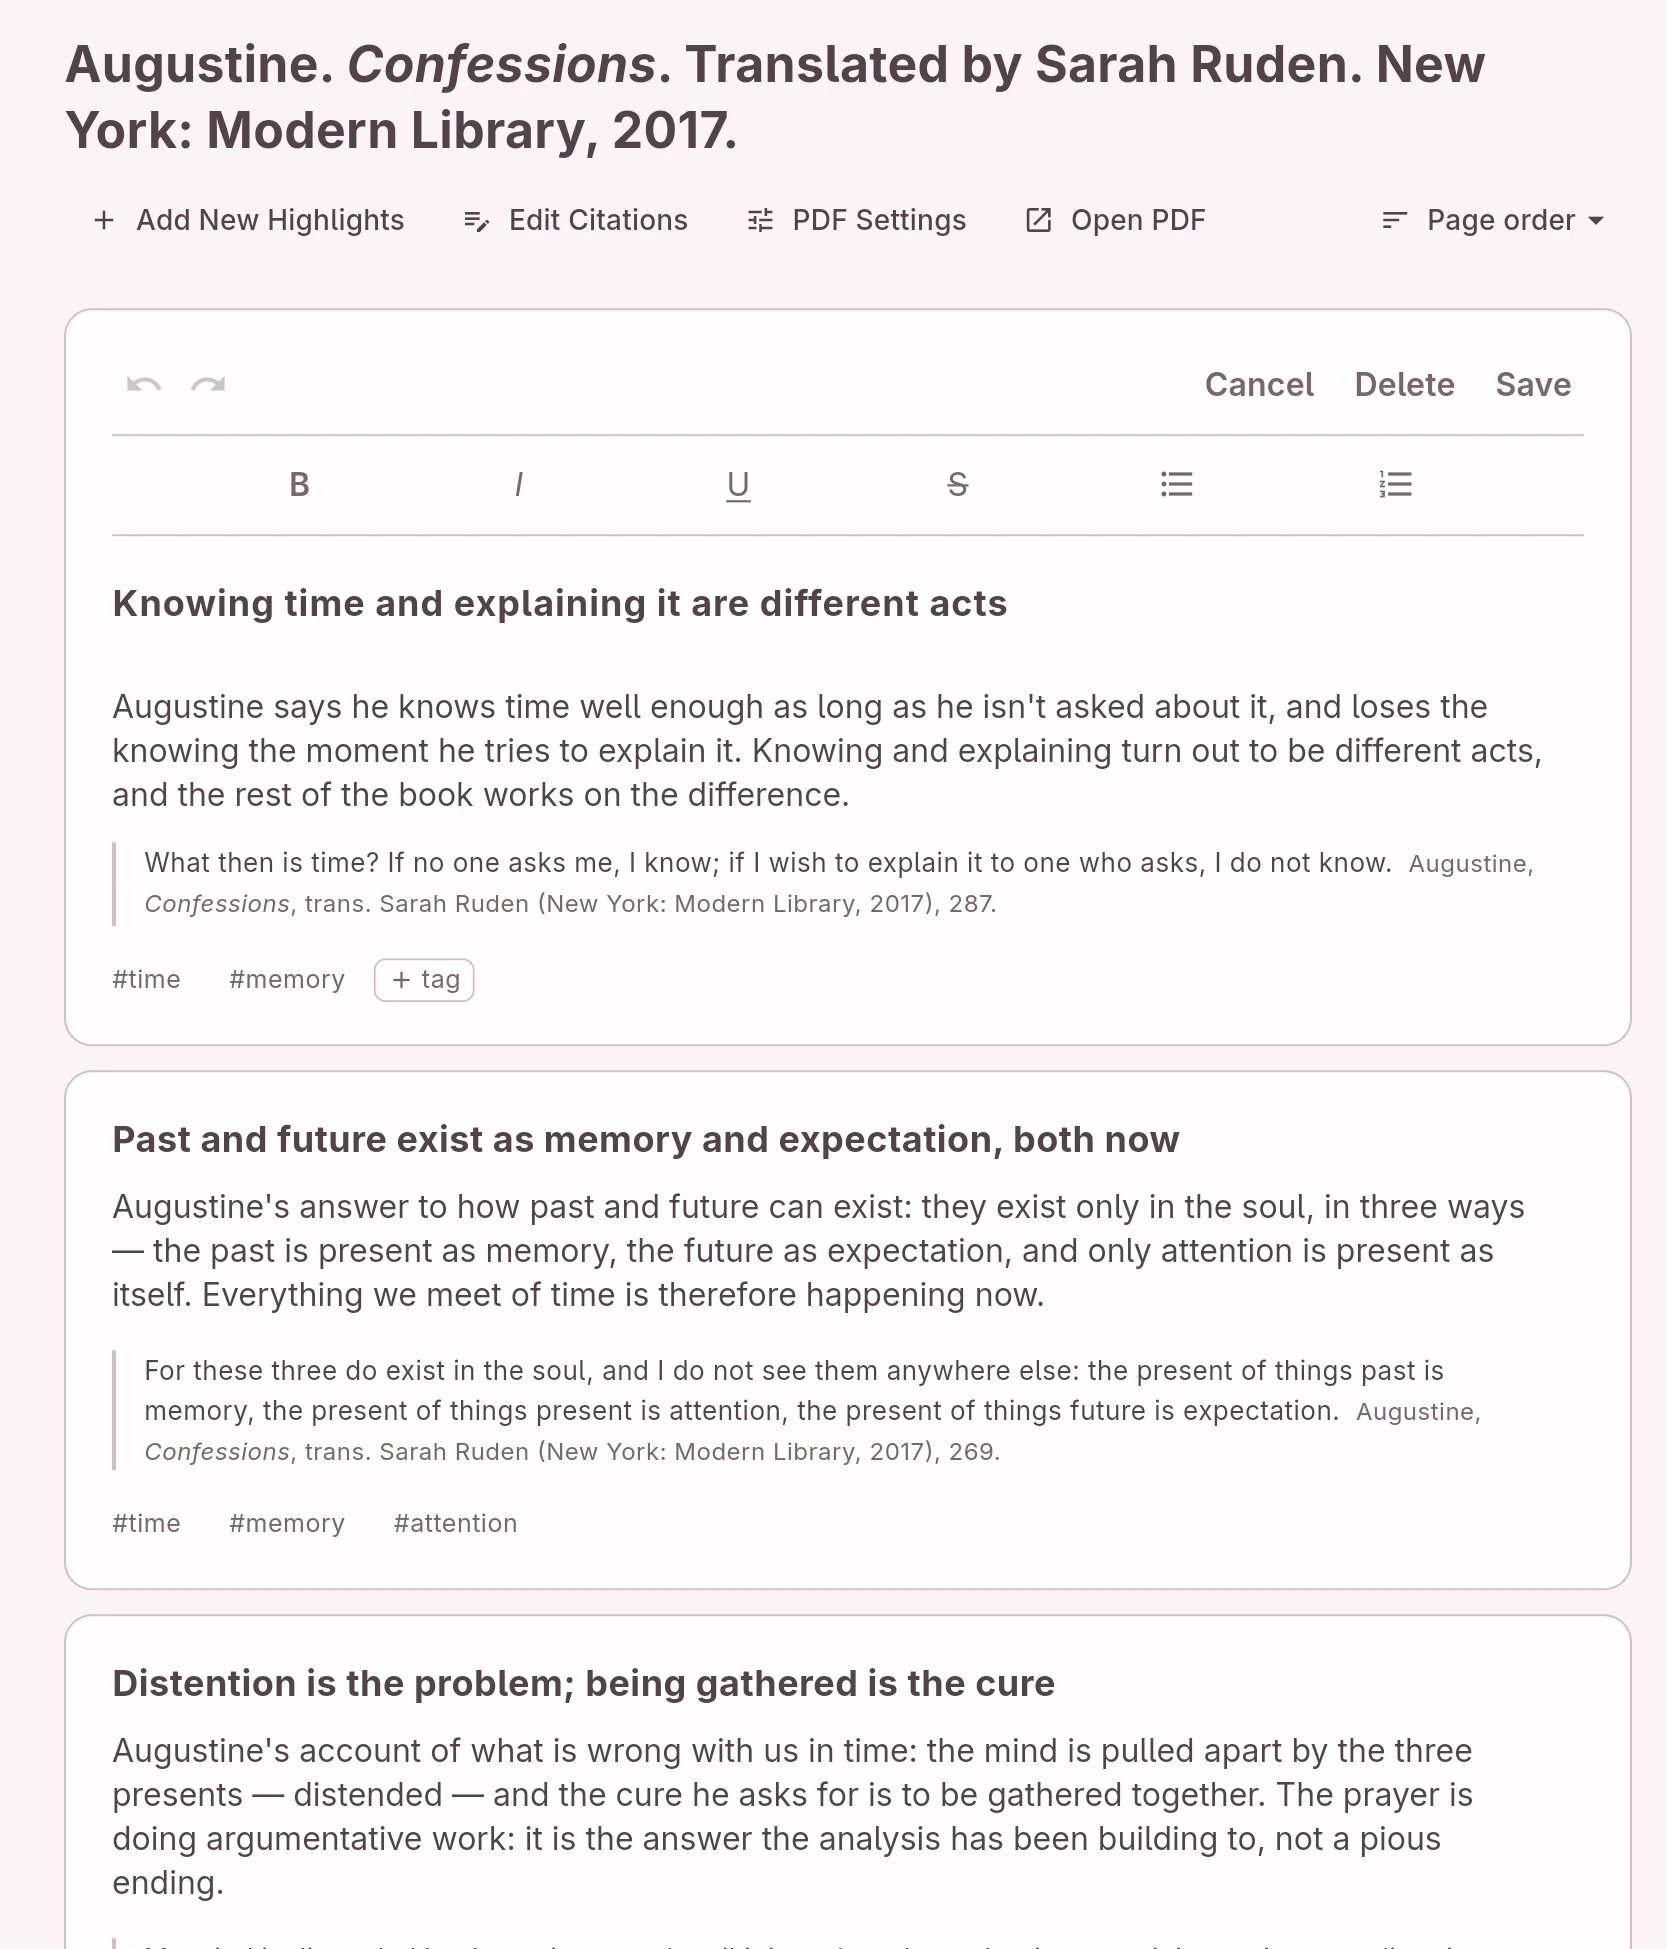
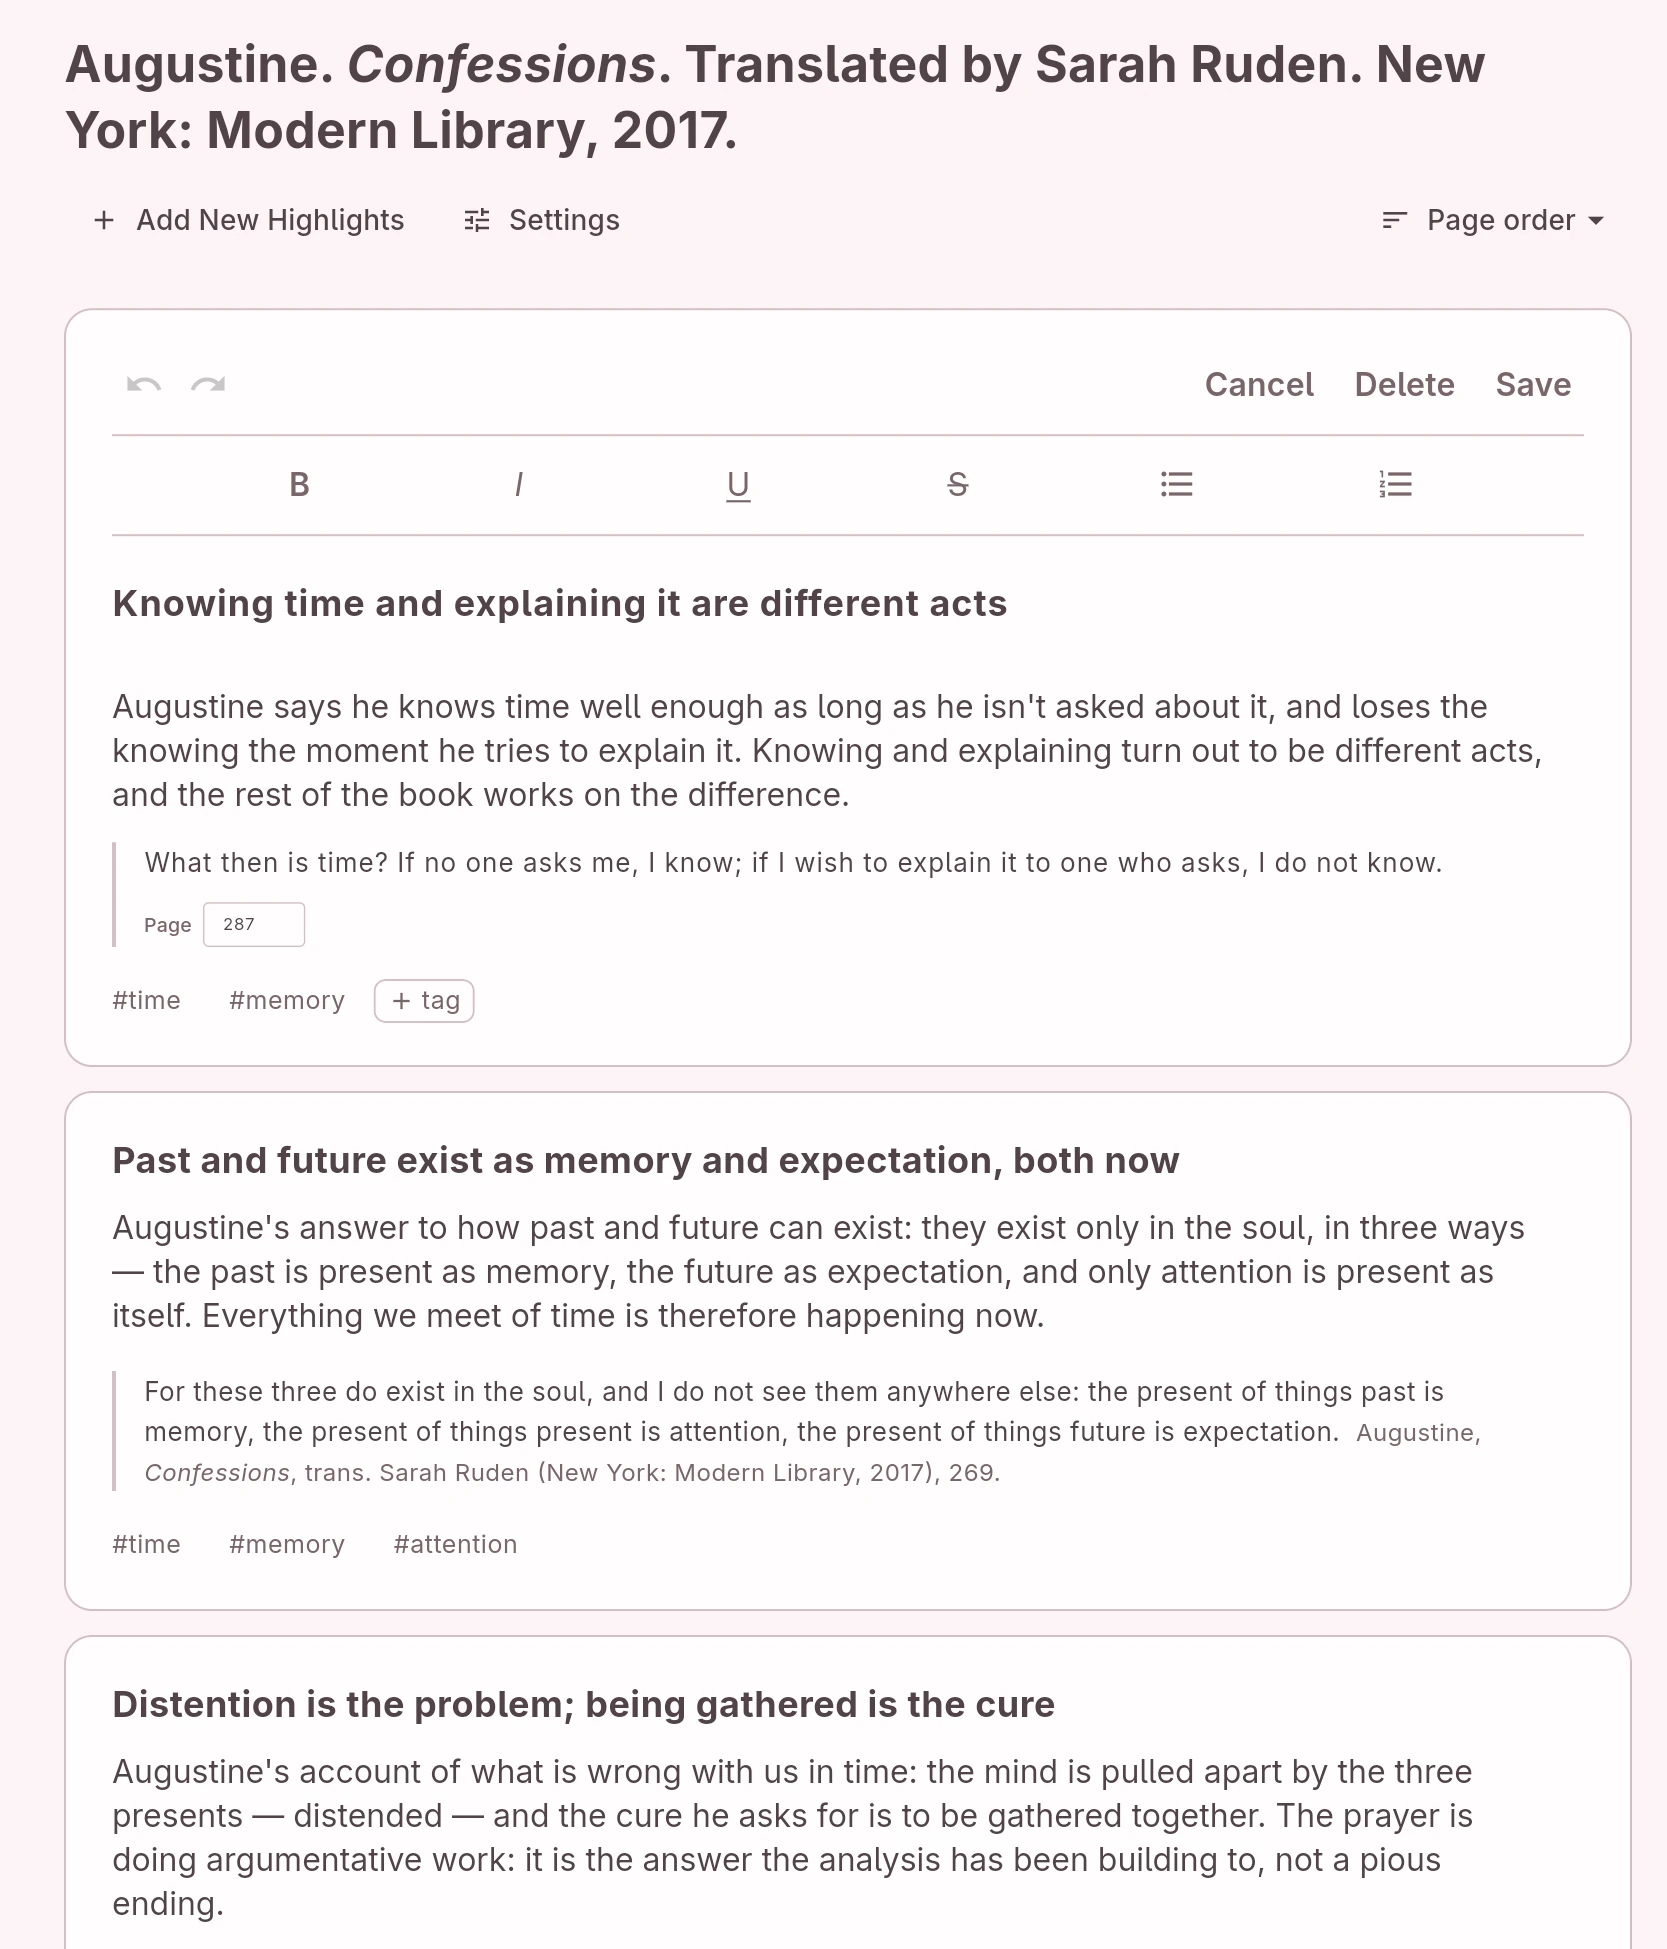
Screenshots retaken for 1.1.3 in every theme (the editing card now shows a highlight's place); versions 20261020

diff --git a/index.html b/index.html
@@ -5,9 +5,9 @@
 <meta name="viewport" content="width=device-width, initial-scale=1">
 <title>Innernet — a home for your highlights</title>
 <meta name="description" content="Innernet is a reader for the PDFs you keep coming back to: highlights become notes with citations, notes gather on a field, insights draw the connections.">
-<link rel="stylesheet" href="style.css?v=20261019g">
-<script src="theme.js?v=20261019g"></script>
-<script src="beta.js?v=20261019g" defer></script>
+<link rel="stylesheet" href="style.css?v=20261020">
+<script src="theme.js?v=20261020"></script>
+<script src="beta.js?v=20261020" defer></script>
 </head>
 <body>
 <main>
@@ -25,7 +25,7 @@
   <section class="home-card">
     <h2>A home for your highlights.</h2>
     <figure class="screen">
-      <img src="images/minima/note-field.webp?v=20261019b" data-shot="note-field" alt="The Note Field seen from far: over five hundred note cards from ten books laid out as a map, each tag a hub — order, language, habit, time, memory — with lines joining every card to what it shares.">
+      <img src="images/minima/note-field.webp?v=20261020" data-shot="note-field" alt="The Note Field seen from far: over five hundred note cards from ten books laid out as a map, each tag a hub — order, language, habit, time, memory — with lines joining every card to what it shares.">
     </figure>
     <p class="tagline">A web of interweaving, mutually illuminating, beautifully connected ideas — each uniquely yours.</p>
   </section>
@@ -57,7 +57,7 @@
   <p class="process-lede">Each highlight is given dedicated space and time, cited from its source, tagged, and automatically organized for easy reference in a week, a month, a year — who's to say?</p>
 
   <figure class="screen">
-    <img src="images/minima/editing-a-card.webp?v=20261019b" data-shot="editing-a-card" alt="A document's cards being edited: titles written as one-sentence summaries, notes stating plainly what the author is saying, the quotation beneath with its Turabian citation and tags.">
+    <img src="images/minima/editing-a-card.webp?v=20261020" data-shot="editing-a-card" alt="A document's cards being edited: titles written as one-sentence summaries, notes stating plainly what the author is saying, the quotation beneath with its Turabian citation and tags.">
   </figure>
 
   <section class="walk right">
@@ -71,17 +71,17 @@
   </section>
 
   <figure class="screen">
-    <img src="images/minima/throughline.webp?v=20261019b" data-shot="throughline" alt="An insight board: highlight cards linked by lines with comments, a throughline ending in an insight card.">
+    <img src="images/minima/throughline.webp?v=20261020" data-shot="throughline" alt="An insight board: highlight cards linked by lines with comments, a throughline ending in an insight card.">
   </figure>
 
   <figure class="screen">
-    <img src="images/minima/sub-throughline.webp?v=20261019b" data-shot="sub-throughline" alt="A smaller chain on the same board: an insight card opening through two highlight cards joined by commented lines.">
+    <img src="images/minima/sub-throughline.webp?v=20261020" data-shot="sub-throughline" alt="A smaller chain on the same board: an insight card opening through two highlight cards joined by commented lines.">
   </figure>
 
   <h2 class="process-head">Map Connections. Generate Insights. Think Clearly.</h2>
 
   <figure class="screen">
-    <img src="images/minima/field-throughline.webp?v=20261019b" data-shot="field-throughline" alt="The Note Field seen from far, every other line faded: one dark throughline running straight down through the middle of five hundred cards, from a highlight in one book to the next and on through seven of them.">
+    <img src="images/minima/field-throughline.webp?v=20261020" data-shot="field-throughline" alt="The Note Field seen from far, every other line faded: one dark throughline running straight down through the middle of five hundred cards, from a highlight in one book to the next and on through seven of them.">
   </figure>
 
   <hr class="rule">

diff --git a/ai.html b/ai.html
@@ -5,8 +5,8 @@
 <meta name="viewport" content="width=device-width, initial-scale=1">
 <title>Innernet AI — one subscription, everything wired</title>
 <meta name="description" content="Innernet AI: clean, cited, tagged highlights for every PDF, and a tutor that researches each passage and talks it through with you. In the beta now — request to join.">
-<link rel="stylesheet" href="style.css?v=20261019g">
-<script src="theme.js?v=20261019g"></script>
+<link rel="stylesheet" href="style.css?v=20261020">
+<script src="theme.js?v=20261020"></script>
 </head>
 <body>
 <main>

diff --git a/downloads.html b/downloads.html
@@ -7,9 +7,9 @@
 <meta name="description" content="Innernet's beta builds for Windows, macOS and Linux.">
 <!-- Unlisted: sent to testers whose beta requests are approved. -->
 <meta name="robots" content="noindex, nofollow">
-<link rel="stylesheet" href="style.css?v=20261019g">
-<script src="theme.js?v=20261019g"></script>
-<script src="downloads.js?v=20261019g" defer></script>
+<link rel="stylesheet" href="style.css?v=20261020">
+<script src="theme.js?v=20261020"></script>
+<script src="downloads.js?v=20261020" defer></script>
 </head>
 <body>
 <main>

diff --git a/checkout.html b/checkout.html
@@ -5,8 +5,8 @@
 <meta name="viewport" content="width=device-width, initial-scale=1">
 <title>Checkout — Innernet</title>
 <meta name="robots" content="noindex">
-<link rel="stylesheet" href="style.css?v=20261019g">
-<script src="theme.js?v=20261019g"></script>
+<link rel="stylesheet" href="style.css?v=20261020">
+<script src="theme.js?v=20261020"></script>
 <script src="https://cdn.paddle.com/paddle/v2/paddle.js"></script>
 </head>
 <body>

diff --git a/pricing.html b/pricing.html
@@ -7,8 +7,8 @@
 <meta name="description" content="Innernet's prices: a one-time license for the app, and an optional Innernet AI subscription.">
 <!-- Unlisted for now. -->
 <meta name="robots" content="noindex, nofollow">
-<link rel="stylesheet" href="style.css?v=20261019g">
-<script src="theme.js?v=20261019g"></script>
+<link rel="stylesheet" href="style.css?v=20261020">
+<script src="theme.js?v=20261020"></script>
 </head>
 <body>
 <main>

diff --git a/terms.html b/terms.html
@@ -3,8 +3,8 @@
 <head>
 <meta charset="utf-8"><meta name="viewport" content="width=device-width, initial-scale=1">
 <title>Terms of Service — Innernet</title>
-<link rel="stylesheet" href="style.css?v=20261019g">
-<script src="theme.js?v=20261019g"></script>
+<link rel="stylesheet" href="style.css?v=20261020">
+<script src="theme.js?v=20261020"></script>
 </head>
 <body>
 <main class="doc">

diff --git a/privacy.html b/privacy.html
@@ -3,8 +3,8 @@
 <head>
 <meta charset="utf-8"><meta name="viewport" content="width=device-width, initial-scale=1">
 <title>Privacy notice — Innernet</title>
-<link rel="stylesheet" href="style.css?v=20261019g">
-<script src="theme.js?v=20261019g"></script>
+<link rel="stylesheet" href="style.css?v=20261020">
+<script src="theme.js?v=20261020"></script>
 </head>
 <body>
 <main class="doc">

diff --git a/refund.html b/refund.html
@@ -5,8 +5,8 @@
 <title>Refund policy — Innernet</title>
 <!-- Unlisted for now. -->
 <meta name="robots" content="noindex, nofollow">
-<link rel="stylesheet" href="style.css?v=20261019g">
-<script src="theme.js?v=20261019g"></script>
+<link rel="stylesheet" href="style.css?v=20261020">
+<script src="theme.js?v=20261020"></script>
 </head>
 <body>
 <main class="doc">

diff --git a/theme.js b/theme.js
@@ -23,7 +23,7 @@
 
   // The pictures' version: bumped (with the pages' ?v= on style.css and
   // theme.js) whenever they change, as the CDN and browsers keep the old.
-  var VERSION = '20261019b';
+  var VERSION = '20261020';
 
   function shot(img, theme) {
     return 'images/' + theme.toLowerCase() + '/' + img.getAttribute('data-shot') + '.webp?v=' + VERSION;
